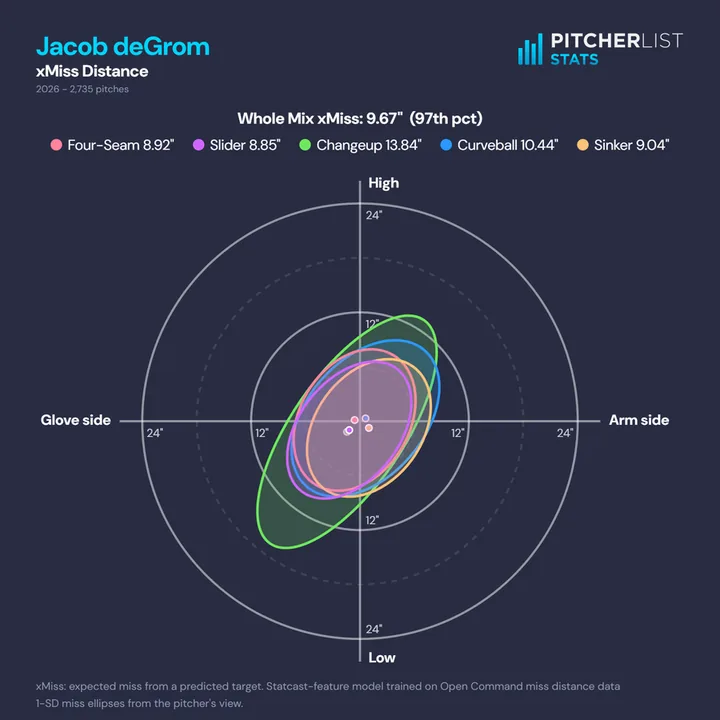
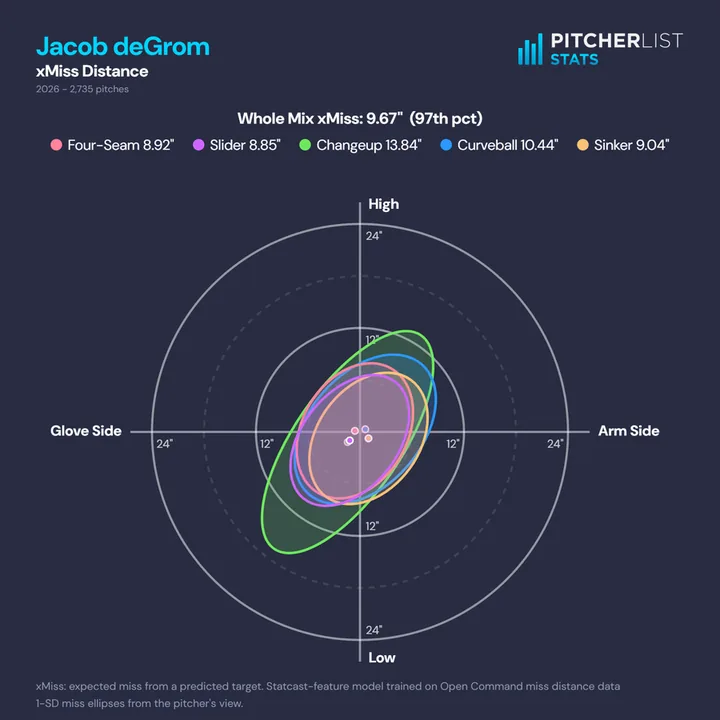
Homepage: regrab the xMiss tile (Arm Side / Glove Side, #376)

diff --git a/index.html b/index.html
@@ -268,7 +268,7 @@
 								</article>
 									<article class="style4">
 									<span class="image">
-										<img src="images/tile-xmiss.webp?v=3" srcset="images/tile-xmiss-720.webp?v=3 720w, images/tile-xmiss.webp?v=3 900w" sizes="(max-width: 480px) 100vw, (max-width: 980px) 50vw, 380px" width="900" height="900" alt="Jacob deGrom's 2026 miss ellipses for each pitch type, from the pitcher's view" />
+										<img src="images/tile-xmiss.webp?v=4" srcset="images/tile-xmiss-720.webp?v=4 720w, images/tile-xmiss.webp?v=4 900w" sizes="(max-width: 480px) 100vw, (max-width: 980px) 50vw, 380px" width="900" height="900" alt="Jacob deGrom's 2026 miss ellipses for each pitch type, from the pitcher's view" />
 									</span>
 									<a href="/xmiss/">
 										<h2>xMiss</h2>
